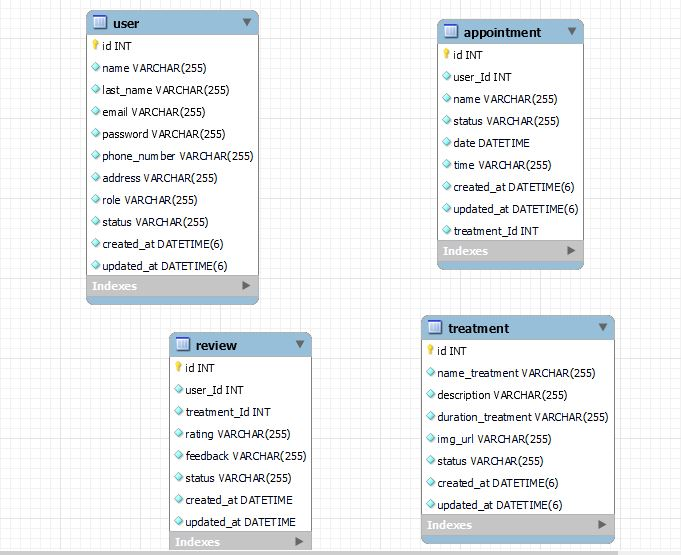
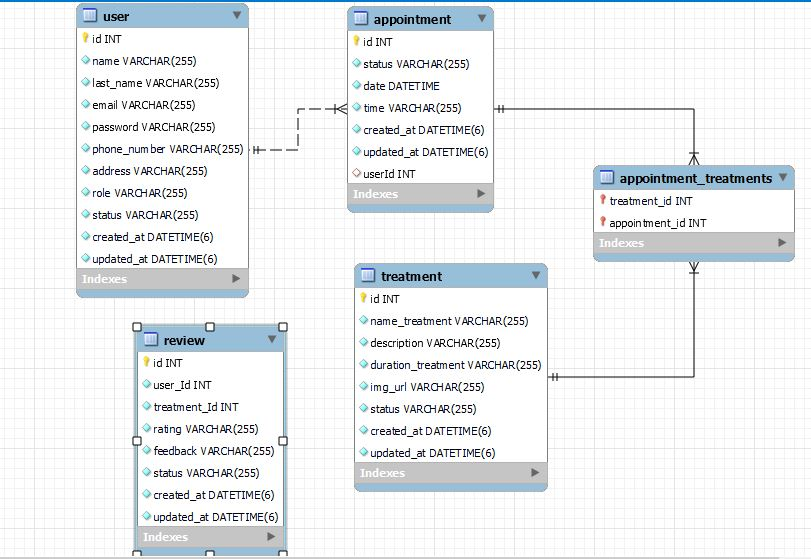
feat: changes in table  image model, relationships include in readme

Changed region(s): [[0.0, 0.0, 1.0, 1.0]]

diff --git a/readme.md b/readme.md
@@ -18,28 +18,46 @@ The developed proposal aims at a backend web application to simulate the managem
 
 ### Representation users relationship
 
+> > @OneToMany(() => Appointments, (appointment) => appointment.user)
+> > appointments!: Appointments[];
+
 > > @OneToMany(() => Reviews, (reviews) => review.user)
 > > reviews!: Reviews[];
 
 ### Representation appointment relationship
 
-> > @ManyToMany(() => Users)
-> > @JoinTable({
-> > name: "appointment"
-> > })
-> > user!: Users[];
+> > @ManyToOne(() => Users, (user) => user.appointments)
+> > user!: Users;
+
+> > @ManyToMany(() => Treatments,(treatment: Treatments) => treatment.appointments)
+> > treatments!: Treatments[];
 
 ### Representation treatment relationship
 
-> > @ManyToOne(() => Appointment, (appointment)=>appointment.treatment)
-> > @JoinColumn({name: "appointment_id"})
-> > appointment!: Appointment [];
+> > @ManyToMany(() => Appointments, (appointment) => appointment.treatments)
+> > @JoinTable({
+> > name: "appointment_treatments", // Nombre de la tabla de unión
+> > joinColumn: {
+> > name: "treatment_id",
+> > referencedColumnName: "id",
+> > },
+> > inverseJoinColumn: {
+> > name: "appointment_id",
+> > referencedColumnName: "id",
+> > },
+> > })
+> > appointments!: Appointments[];
+
+> > @OneToMany(() => Reviews, (review) => review.treatment)
+> > reviews!: Reviews[];
 
 ### Representation Review relationship
 
-> > @ManyToOne(() => Treatment, (treatment)=>treatmet.review)
-> > @JoinColumn({name: "treatment_id"})
-> > treatment!: Treatment [];
+> > @ManyToOne(() => Users, (user) => user.reviews) //revisar no me trae el .review
+> > user!: Users;
+
+> > @ManyToOne(() => Treatments, (treatment) => treatment.reviews)
+> > treatment!: Treatments;
 
 ### Reverse Engineer
 
